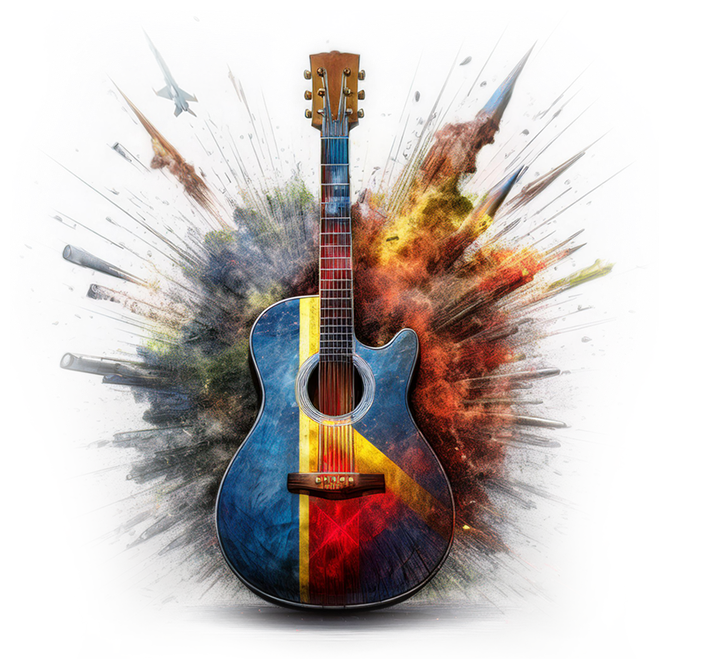
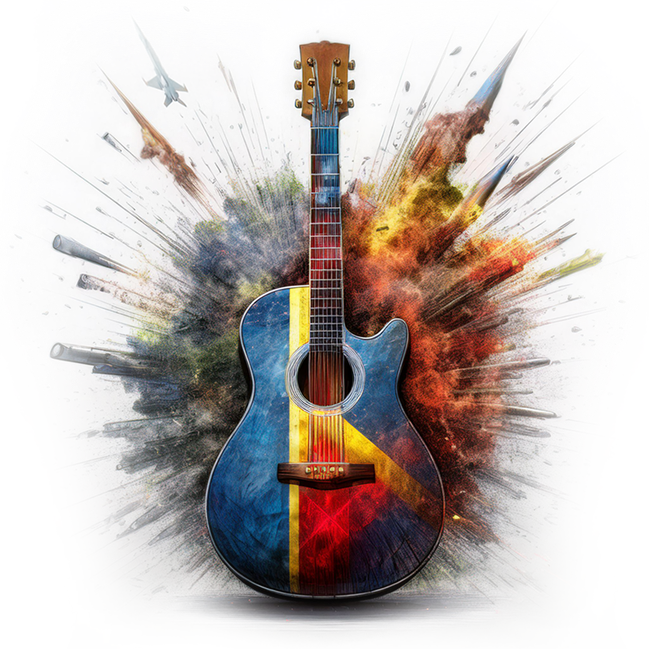
fix

diff --git a/css/main.css b/css/main.css
@@ -165,7 +165,7 @@ body {
 }
 
 main {
-  margin-top: 50px;
+  margin-top: 66px;
 }
 
 /* Default CSS Code */
@@ -180,13 +180,9 @@ main {
   z-index: 9999;
   padding: 16px 0;
   background: #efad18;
-  height: 60px;
+  height: 66px;
   display: flex;
   align-items: center;
-}
-
-.header--home {
-  height: 50px;
 }
 
 .header .container {
@@ -258,6 +254,7 @@ main {
 /* Hero Area */
 .hero-area {
   padding: 32px 0;
+  min-height: calc(100vh - 66px);
 }
 
 .hero__logo {
@@ -301,6 +298,7 @@ main {
   padding-top: 40px;
   padding-bottom: 28px;
   background: url("../images/location-bg.jpg");
+  min-height: 100vh;
 }
 
 .location {
@@ -326,7 +324,7 @@ main {
 
 .location__map-icon {
   width: fit-content;
-  height: 60px;
+  height: 26px;
 }
 
 .location__map-info h2 {
@@ -371,6 +369,7 @@ main {
 /* Cause Hero Area */
 .cause-hero-area {
   padding-top: 24px;
+  min-height: calc(100vh - 66px);
 }
 
 .cause-hero {
@@ -385,8 +384,8 @@ main {
   position: absolute;
   top: 0;
   left: 50%;
-  width: 667px;
-  height: 608px;
+  width: 648px;
+  height: 609px;
   transform: translateX(-50%);
   -webkit-transform: translateX(-50%);
   -moz-transform: translateX(-50%);
@@ -396,6 +395,11 @@ main {
 
 .cause-hero__image img {
   object-fit: contain;
+}
+
+.mobile-women,
+.mobile-guiter {
+  display: none;
 }
 
 .cause-hero__content {
@@ -441,7 +445,8 @@ main {
 }
 
 .give__btn:hover {
-  background: #145e6e;
+  background: #7ebfa0;
+  color: #222d35;
 }
 
 .cause-hero__partners {
@@ -489,11 +494,11 @@ main {
 }
 
 .cause-guiter__image {
-  width: 706px;
+  width: 649px;
   height: auto;
   position: absolute;
   bottom: -60px;
-  left: -20px;
+  left: -10px;
 }
 
 .cause-guiter__image img {

diff --git a/css/responsive.css b/css/responsive.css
@@ -182,11 +182,11 @@
   }
 
   .cause-guiter__image {
-    width: 464px;
+    width: 467px;
     height: auto;
     position: absolute;
     bottom: -45px;
-    left: 0;
+    left: -6px;
   }
 
   .cause-guiter-area {
@@ -324,7 +324,13 @@
     height: auto;
     position: absolute;
     bottom: -45px;
-    left: 0;
+    left: -8px;
+  }
+
+  .hero-area,
+  .location-area,
+  .cause-hero-area {
+    min-height: auto;
   }
 }
 
@@ -451,16 +457,26 @@
   }
 
   .cause-hero__image {
-    width: 100%;
+    width: calc(100% + 40px);
     height: 479px;
-    top: -50px;
+    top: -25px;
     right: auto;
-    left: 53%;
+    left: 50%;
     transform: translateX(-50%);
     -webkit-transform: translateX(-50%);
     -moz-transform: translateX(-50%);
     -ms-transform: translateX(-50%);
     -o-transform: translateX(-50%);
+  }
+
+  .desktop-women,
+  .desktop-guiter {
+    display: none;
+  }
+
+  .mobile-women,
+  .mobile-guiter {
+    display: block;
   }
 
   .mobile-logo {
@@ -477,7 +493,7 @@
   }
 
   .cause-hero__content {
-    margin-top: 430px;
+    margin-top: 490px;
     max-width: 100%;
   }
 
@@ -507,7 +523,7 @@
   }
 
   .cause-guiter {
-    height: 850px;
+    height: 910px;
     justify-content: flex-start;
     align-items: flex-start;
   }
@@ -534,8 +550,13 @@
   }
 
   .cause-guiter__image {
-    width: 100%;
-    bottom: -40px;
-    left: 0;
+    width: calc(100% + 40px);
+    bottom: -35px;
+    left: 50%;
+    transform: translateX(-50%);
+    -webkit-transform: translateX(-50%);
+    -moz-transform: translateX(-50%);
+    -ms-transform: translateX(-50%);
+    -o-transform: translateX(-50%);
   }
 }

diff --git a/cause.html b/cause.html
@@ -95,7 +95,16 @@
             </div>
 
             <div class="cause-hero__image">
-              <img src="images/woman-paysage.png" alt="woman paysage" />
+              <img
+                class="desktop-women"
+                src="images/woman-paysage.png"
+                alt="woman paysage"
+              />
+              <img
+                class="mobile-women"
+                src="images/woman-paysage-mobile.png"
+                alt="woman paysage"
+              />
             </div>
 
             <div class="cause-hero__partners">
@@ -149,7 +158,16 @@
         <div class="container">
           <div class="cause-guiter">
             <div class="cause-guiter__image">
-              <img src="images/guitar.png" alt="guitar" />
+              <img
+                class="desktop-guiter"
+                src="images/guitar.png"
+                alt="guitar"
+              />
+              <img
+                class="mobile-guiter"
+                src="images/guitar-mobile.png"
+                alt="guitar"
+              />
             </div>
 
             <div class="cause-guiter__content">
